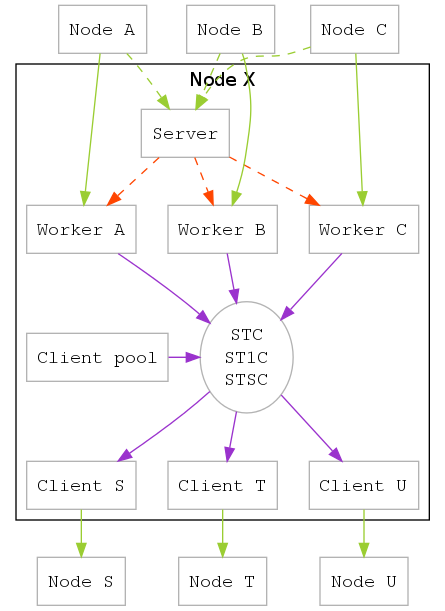
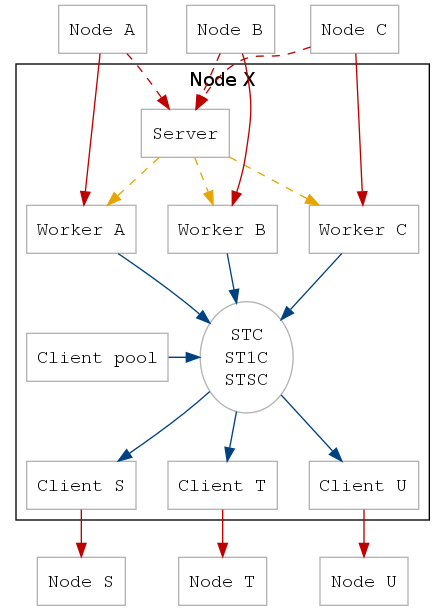
Network diagram, auxiliaries

diff --git a/README.md b/README.md
@@ -53,6 +53,10 @@ Network description
 -------------------
 
 
+![(Picture missing, uh oh)](doc/network.png "Network structure of a small system")
+
+The picture shows the network structure of a small Amœba network. Blue arrows are ordinary connections, while red ones stand for local direct connections, used by special network services.
+
 
 ### Normal nodes
 
@@ -171,11 +175,11 @@ These may help reading the source comments:
 
 The picture below sketches the flow of information in a single Amœba client.
 
-- Network connections are shown in green. Nodes first connect to another node's server (dashed arrows), which then relays them to their own private worker in the target node (by spawning a new worker, orange/dashed), at which point the data flows directly from node to worker.
+- Network connections are shown in red. Nodes first connect to another node's server (dashed red), which then relays them to their own private worker in the target node (by spawning a new worker, yellow dashed), at which point the data flows directly from node to worker.
 
-- Workers take input from upstream nodes and formulate a response based on them. This response is then sent over the internal channels (purple) to the clients.
+- Workers take input from upstream nodes and formulate a response based on them. This response is then sent over the internal channels (blue) to the clients.
 
-- Clients have persistent connections to downstream neighbours open, and send the instructions received to them (without really processing them themselves; the workers do most of the logic).
+- Clients have persistent connections to downstream neighbours open (red network connections), and send the instructions received from the channels to them.
 
 - The client pool watches internal databases to determine whether there are enough workers and clients. If not, it instructs existing clients to send requests for further neighbours.
 
